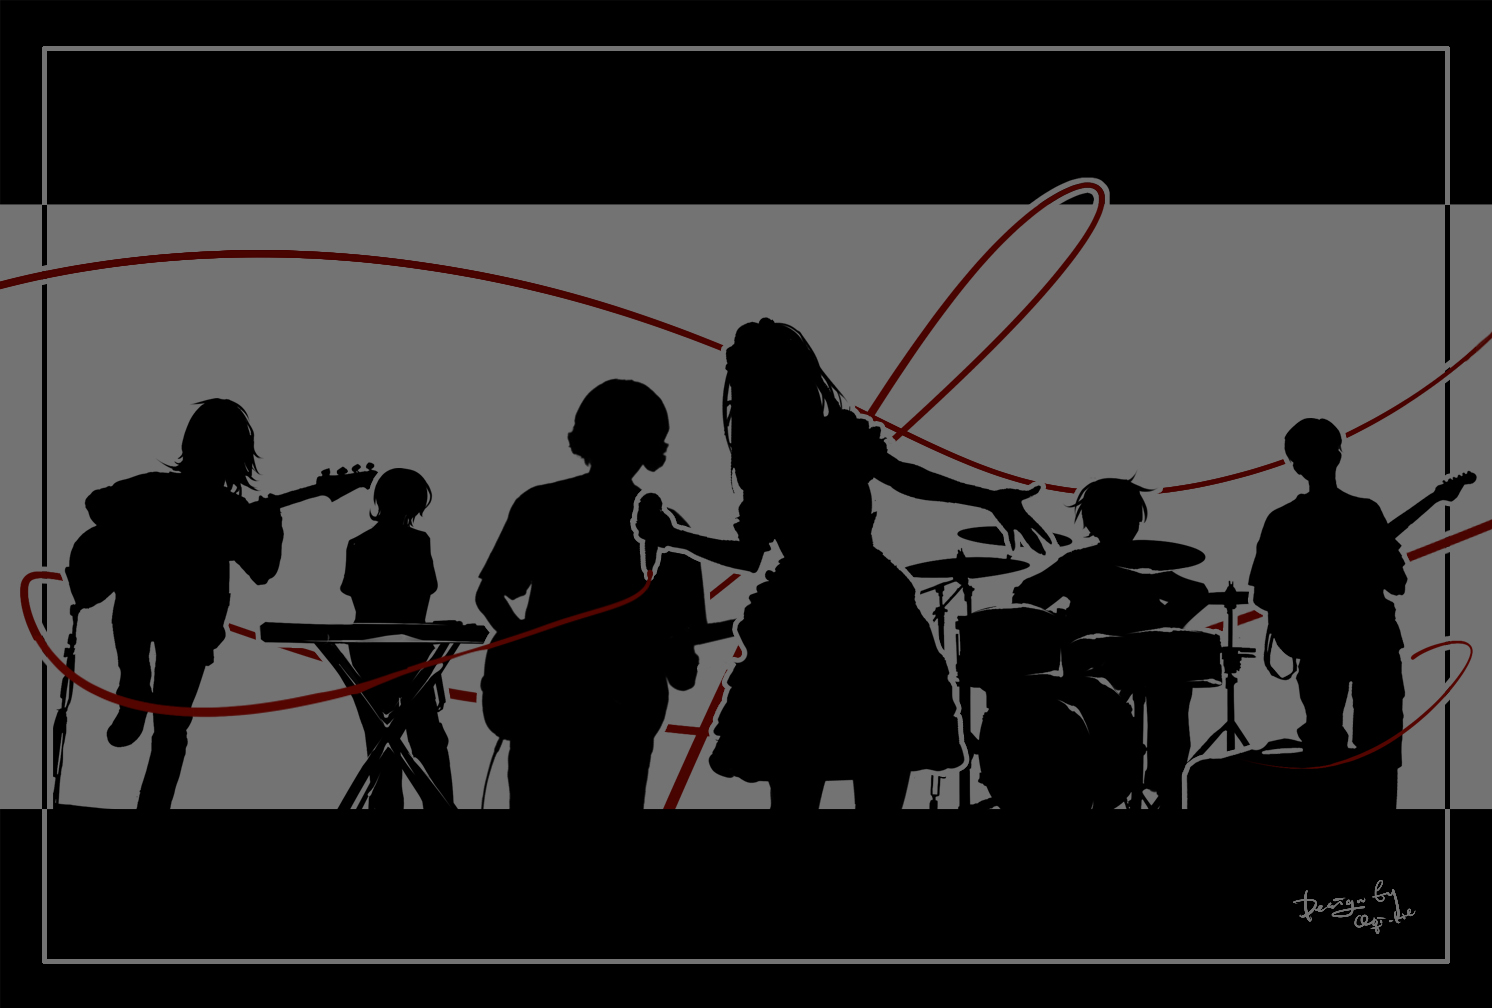
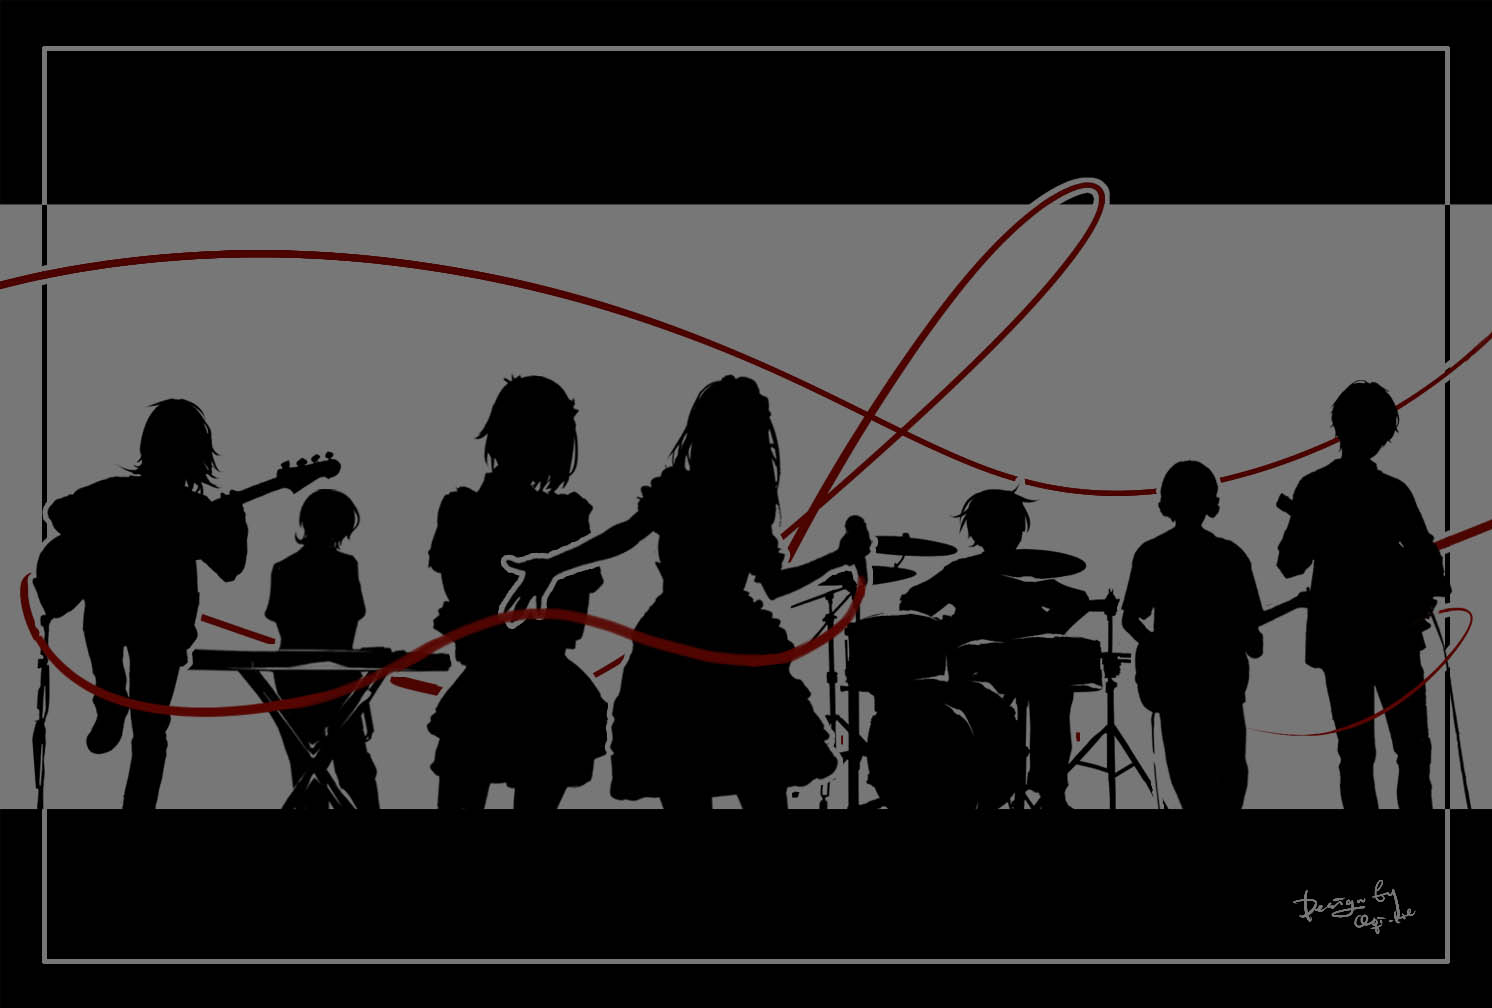
update band members link

Changed region(s): [[0.0, 0.3075, 0.9866, 0.7996]]

diff --git a/en/band.html b/en/band.html
@@ -107,7 +107,7 @@
 								<li><a href="" class="no-pointer">ACGN Live <i class="icon icon-map-marker loc-opacity"> FDU (沸点纪) </i><span class="icon-calendar"> Jun. 01, 2024</span></a></li>
 								<li><a href="" class="no-pointer">ACGN Live <i class="icon icon-map-marker loc-opacity"> SUFE (初夏纪)</i><span class="icon-calendar"> May. 25, 2024</span></a></li>
 								<li><a href="" class="no-pointer">ACGN Live <i class="icon icon-map-marker loc-opacity"> Xuhui District, Shanghai (二向迭音)</i><span class="icon-calendar"> May. 18, 2024</span></a></li>
-								<li><a href="" class="no-pointer">ACGN Live<i class="icon icon-map-marker loc-opacity"> FDU (五月雨)</i><span class="icon-calendar"> May. 05, 2024</span></a></li>
+								<li><a href="" class="no-pointer">ACGN Live <i class="icon icon-map-marker loc-opacity"> FDU (五月雨)</i><span class="icon-calendar"> May. 05, 2024</span></a></li>
 							  </ul>
 							<div class="text pt-5"></div>
 							<span class="category mb-1 d-block"><a href="#">2017 - 2019, Canton, Guangdong, China</a></span>
@@ -152,8 +152,10 @@
 	            <div class="sidebar-box ftco-animate ml-0">
 	            <h3 class="sidebar-heading">Member's Links<br>(K-OVER!)</h3>
 	              <ul class="categories hidelist">
-					<li><a href="https://space.bilibili.com/1563925", target="_blank">孑孓 (Vo.)<span class="fa-brands fa-bilibili"></span></a></li>
+					<li><a href="https://space.bilibili.com/6291228", target="_blank">Netanuki (Vo.)<span class="fa-brands fa-bilibili"></span></a></li>          
+					<li><a href="https://space.bilibili.com/1563925", target="_blank">Jiejue (Vo.)<span class="fa-brands fa-bilibili"></span></a></li>
 					<li><a href="https://space.bilibili.com/74167312", target="_blank">BeniKu (Gt.)<span class="fa-brands fa-bilibili"></span></li>
+					<li><a href="https://space.bilibili.com/399385794", target="_blank">Chelsea (Gt.)<span class="fa-brands fa-bilibili"></span></a></li>
 					<li><a href="https://space.bilibili.com/13339944", target="_blank">Sumire (Ba.)<span class="fa-brands fa-bilibili"></span></a></li>
 					<li><a href="https://www.cameudis.com/", target="_blank">Cameudis (Dr.)<span class="fa-solid fa-laptop-code"></span></a></li>
 	              </ul>

diff --git a/cn/band.html b/cn/band.html
@@ -148,10 +148,11 @@
 	            <h3 class="sidebar-heading">成员链接（K-OVER!）</h3>
 	              <ul class="categories hidelist">
 					<li><a href="https://space.bilibili.com/1563925", target="_blank">孑孓 (Vo.)<span class="fa-brands fa-bilibili"></span></a></li>          
-	                <li><a href="https://space.bilibili.com/74167312", target="_blank">紅海月 (Gt.)<span class="fa-brands fa-bilibili"></span></li>
+					<li><a href="https://space.bilibili.com/6291228", target="_blank">音狸 (Vo.)<span class="fa-brands fa-bilibili"></span></a></li>          
+					<li><a href="https://space.bilibili.com/74167312", target="_blank">紅海月 (Gt.)<span class="fa-brands fa-bilibili"></span></a></li>
+					<li><a href="https://space.bilibili.com/399385794", target="_blank">切尔西 (Gt.)<span class="fa-brands fa-bilibili"></span></a></li>
 					<li><a href="https://space.bilibili.com/13339944", target="_blank">Sumire (Ba.)<span class="fa-brands fa-bilibili"></span></a></li>
 					<li><a href="https://www.cameudis.com/", target="_blank">白鸟 (Dr.)<span class="fa-solid fa-laptop-code"></span></a></li>
-	                
 	              </ul>
 	            </div>
 
